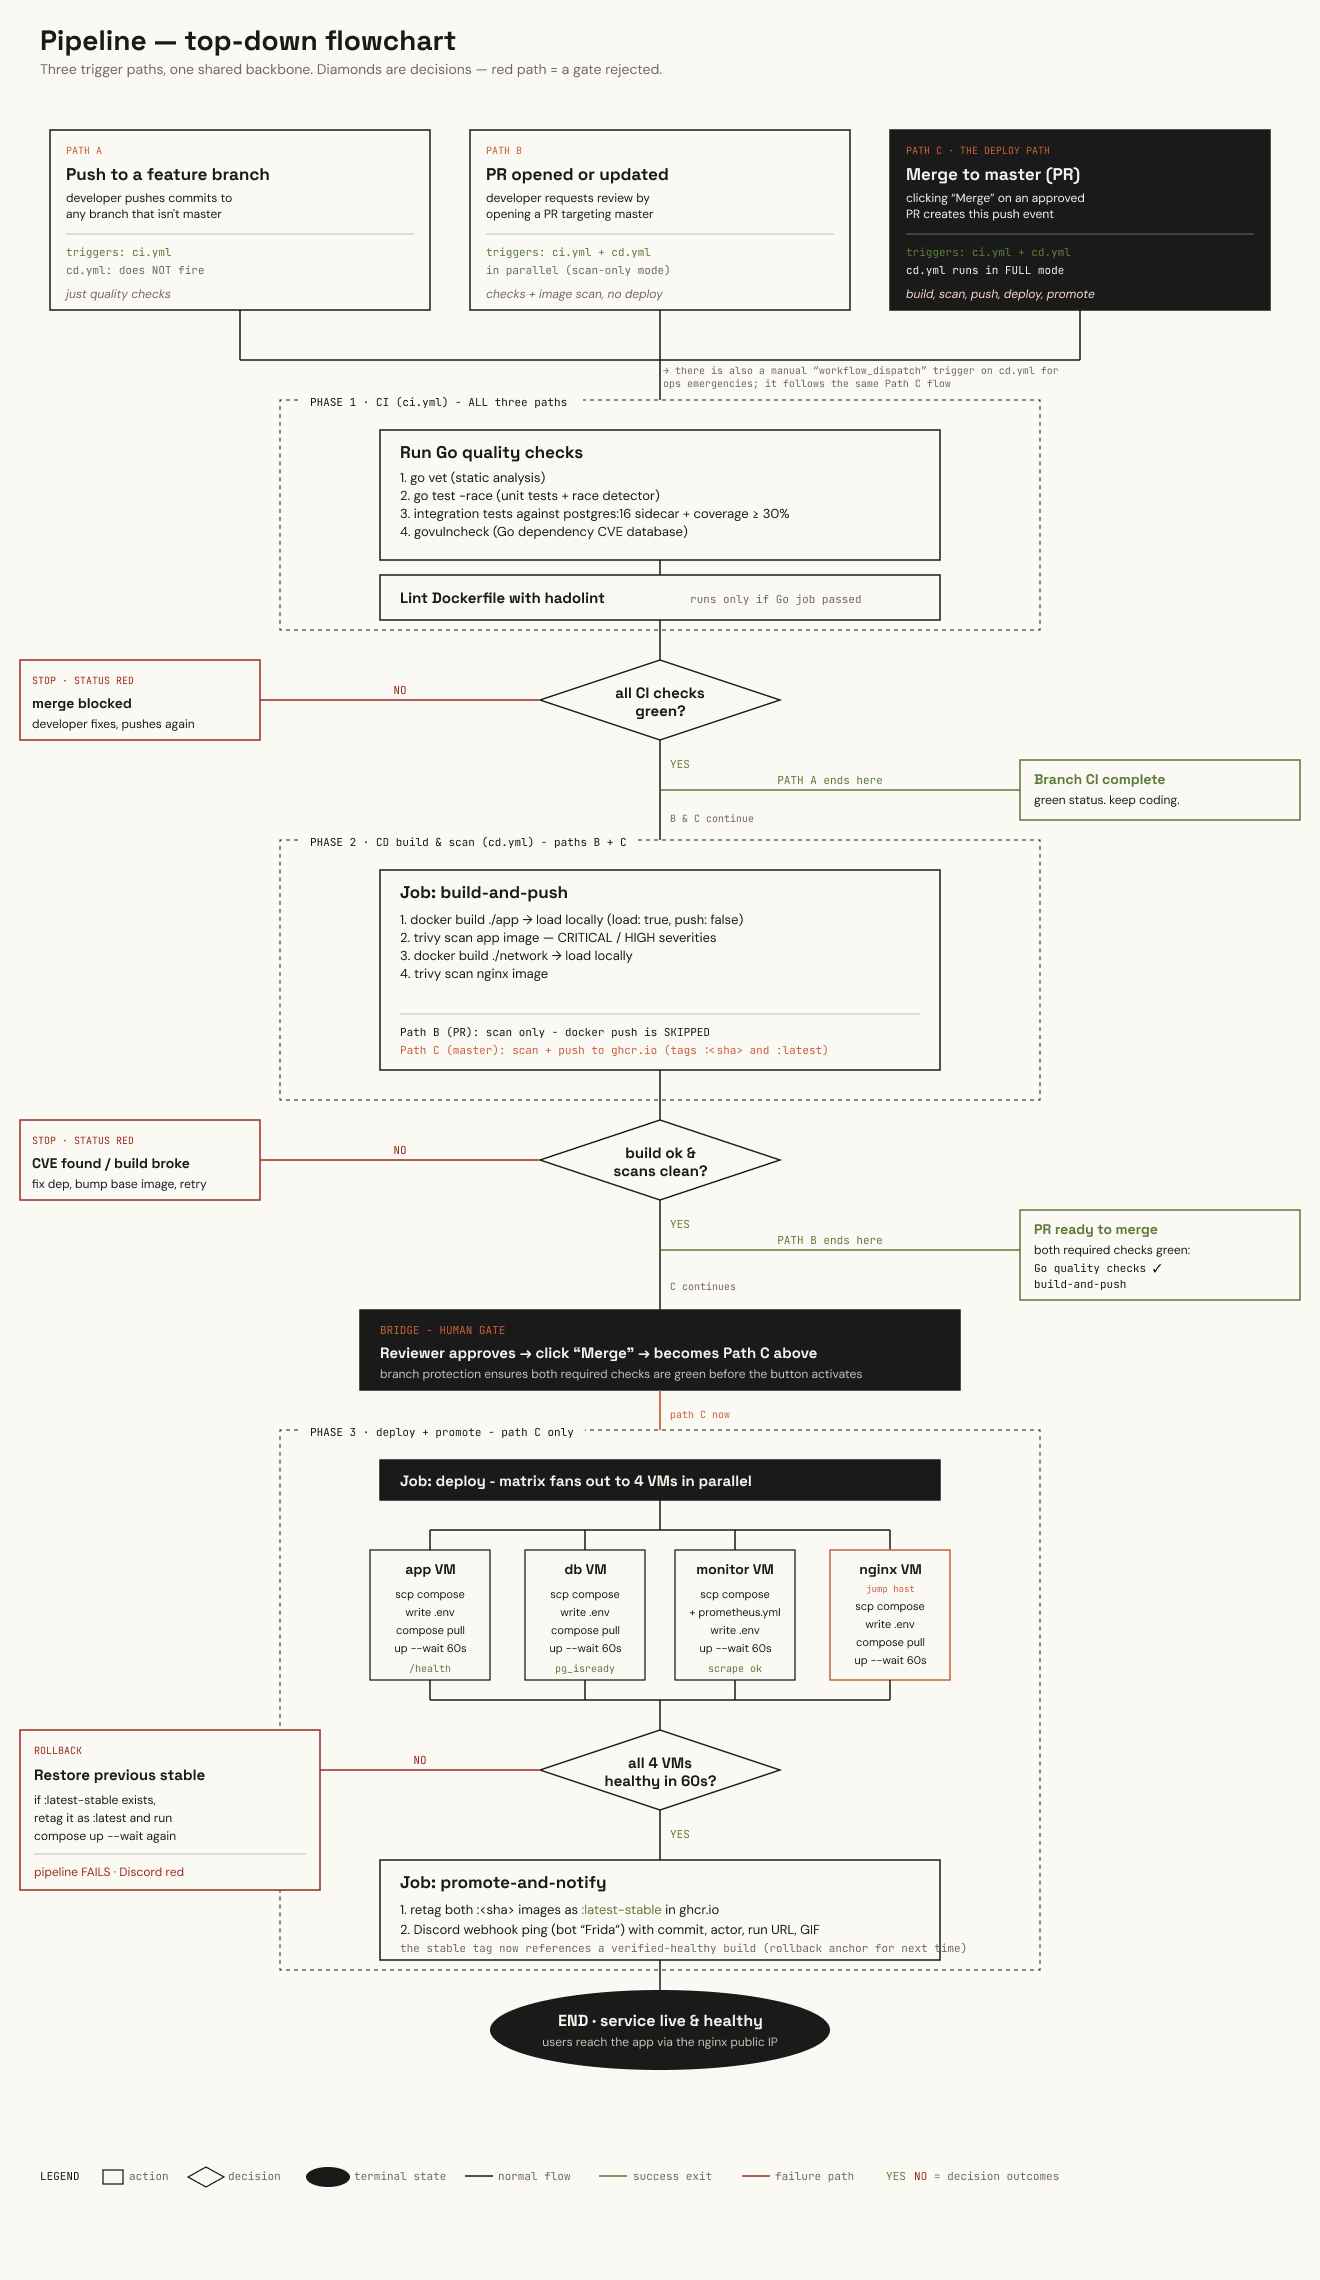
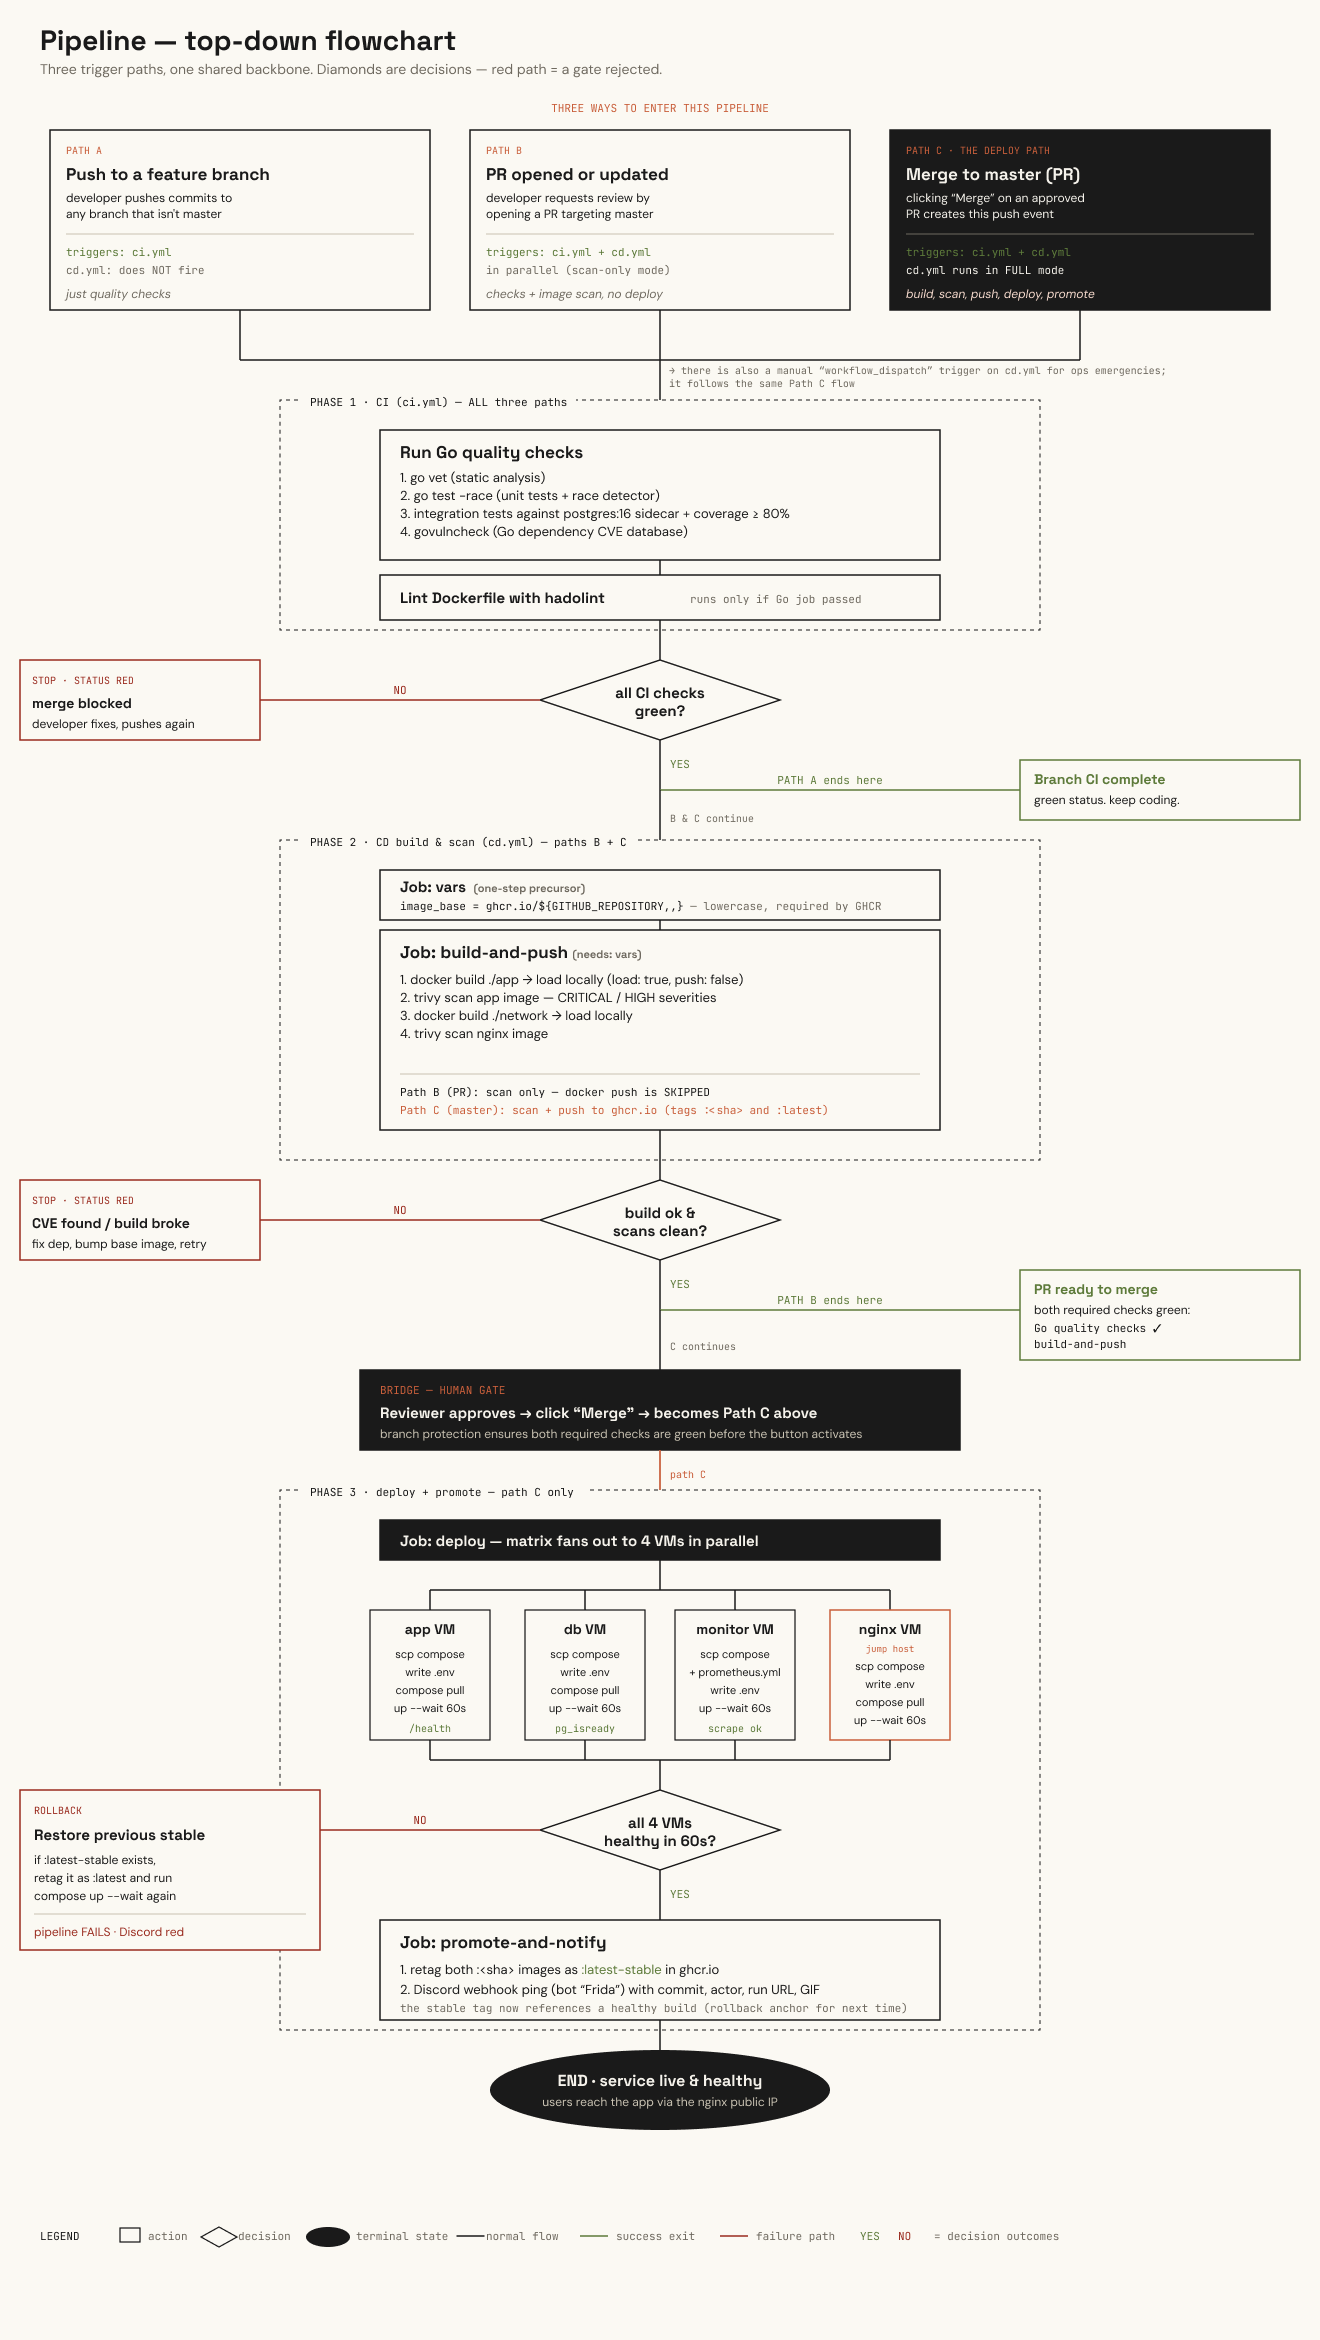
Fix README inaccuracies and sync docs with current infrastructure

diff --git a/readme.md b/readme.md
@@ -33,16 +33,18 @@ A Go rewrite of a legacy Python/Flask recipe cookbook application. The project s
 
 ### Option A — View the live app
 
-The application is deployed and running. Open the URL printed at the end of `azure-setup.sh`, or ask the repository owner for the current nginx public IP.
+The application is deployed and running at the static public IP below.
 
 | Endpoint | URL |
 |---|---|
-| Web UI | `http://<nginx-public-ip>/` |
-| REST API overview | `http://<nginx-public-ip>/api` |
-| Swagger UI | `http://<nginx-public-ip>/swagger` |
-| Grafana | `http://<nginx-public-ip>/grafana/` |
+| Web UI | `http://20.251.36.80/` |
+| REST API overview | `http://20.251.36.80/api` |
+| Swagger UI | `http://20.251.36.80/swagger` |
+| Grafana | `http://20.251.36.80/grafana/` |
 
-> The live IP is stored in the `SSH_HOST_NGINX` GitHub secret and changes if the infrastructure is torn down and rebuilt.
+> The public IP (`20.251.36.80`) is a static Azure resource in the `recipe-cookbook` resource group and is preserved across teardown and re-setup — as long as the same Azure account is used. If the infrastructure is migrated to a different account, the IP will change and this section should be updated.
+
+> **Note:** HTTPS (port 443) is not currently configured. All traffic runs over HTTP.
 
 ---
 
@@ -56,7 +58,7 @@ The application is deployed and running. Open the URL printed at the end of `azu
 |---|---|---|
 | Azure CLI | Windows: `winget install Microsoft.AzureCLI`<br>macOS: `brew install azure-cli`<br>Linux (Ubuntu/Debian): `curl -sL https://aka.ms/InstallAzureCLIDeb &#124; sudo bash`<br>Other Linux: [install guide](https://learn.microsoft.com/en-us/cli/azure/install-azure-cli-linux) | `az login` |
 | GitHub CLI | Windows: `winget install GitHub.cli`<br>macOS: `brew install gh`<br>Linux (Ubuntu/Debian): `sudo apt install gh`<br>Other Linux: [install guide](https://cli.github.com/) | `gh auth login --scopes read:packages` |
-| Azure subscription | Azure for Students works | quota for 4 × Standard_B1s VMs + 1 Standard public IP |
+| Azure subscription | Azure for Students works | quota for 4 × Standard_B2als_v2 VMs + 1 Standard public IP |
 | `openssl` | Pre-installed on macOS/Linux; included in Git Bash / WSL on Windows | — |
 | SSH key | Auto-generated at `~/.ssh/azure_key` if missing | — |
 
@@ -99,7 +101,7 @@ bash infrastructure/azure-teardown.sh
 | Reverse proxy | Nginx |
 | Monitoring | Prometheus + Grafana |
 | Container registry | GHCR |
-| Cloud | Azure (4 × Standard_B1s VMs) |
+| Cloud | Azure (4 × Standard_B2als_v2 VMs) |
 
 Go with `net/http` was chosen over the legacy Python/Flask stack for its performance and simplicity — it is compiled, statically typed, and the standard library HTTP server requires no external framework dependencies.
 
@@ -111,8 +113,10 @@ The application is split across four Azure VMs in a shared VNet (`10.0.0.0/16`),
 
 ![Azure Architecture](docs/azure-architecture.png)
 
+- The nginx VM is the only entry point. Its public IP (`20.251.36.80`) is a static resource in the `recipe-cookbook` resource group and survives teardown/re-setup on the same Azure account.
 - The app VM and postgres VM are reachable only within the VNet — no public IP.
 - The monitoring VM is also private; Grafana is exposed through nginx at `/grafana/`.
+- Private IPs within the subnet are assigned dynamically by Azure and may change if a VM is recreated. The current values are stored in the GitHub Actions secrets (`SSH_HOST_APP`, `SSH_HOST_POSTGRES`, `SSH_HOST_MONITORING`).
 - All VMs are provisioned and configured by the IaC scripts in [`infrastructure/`](infrastructure/README.md).
 
 ---
@@ -133,13 +137,24 @@ Branch protection rules on `master` enforce that no direct pushes are allowed an
 
 ## Running Locally
 
-**Prerequisites:** Docker and Docker Compose. On **Windows** without Git Bash or WSL, replace `cp` with `copy`.
+**Prerequisites:** Docker and Docker Compose.
+- **Windows / macOS:** Install [Docker Desktop](https://www.docker.com/products/docker-desktop/)
+- **Linux:** Install Docker Engine + the `docker-compose-plugin` package
+
+On **Windows** without Git Bash or WSL, replace `cp` with `copy`.
+
+Run each step from the **repository root**. After each `cd`, return with `cd ..` before starting the next step.
 
 **1. Start the database**
 ```bash
 cd database
 cp .env.example .env   # fill in credentials
 docker compose up -d
+```
+
+Verify the database is ready before continuing:
+```bash
+docker compose logs postgres | grep "database system is ready to accept connections"
 ```
 
 **2. Start the application**
@@ -202,7 +217,7 @@ The database is seeded with four sample recipes on first startup if the `recipes
 Infrastructure is managed as code using bash scripts in [`infrastructure/`](infrastructure/README.md).
 
 - **`azure-setup.sh`** — provisions all four VMs, configures networking and firewall rules, installs Docker, and writes all GitHub Actions secrets automatically.
-- **`azure-teardown.sh`** — deletes the entire resource group and all associated resources.
+- **`azure-teardown.sh`** — deletes VMs, NICs, disks, NSGs, and the VNet from the `recipe-cookbook` resource group. The nginx public IP is deliberately preserved so it can be reused on the next setup.
 
 Every group member should be able to run the full setup → deploy → teardown cycle independently. See [`infrastructure/README.md`](infrastructure/README.md) for prerequisites and usage.
 
@@ -235,7 +250,7 @@ Prometheus scrapes metrics from the app every 15 seconds. Grafana visualises the
 | Environment | Prometheus | Grafana |
 |---|---|---|
 | Local | `http://localhost:9090` | `http://localhost:3001` |
-| Production | internal only | `http://<nginx-public-ip>/grafana/` — IP is the value of the `SSH_HOST_NGINX` secret, set by `azure-setup.sh` |
+| Production | internal only | `http://20.251.36.80/grafana/` |
 
 Metrics exposed at `/metrics`:
 
@@ -367,7 +382,7 @@ Only use this for WIP commits on a personal branch. All code must pass checks be
 - **Environment Parity:** The deployment uses the exact same configuration templates and scripts that will be used for production.
 
 ### 4. Observability & Operations
-- **Telemetry:** Logging, metrics, and distributed tracing are implemented following architectural standards.
+- **Telemetry:** Logging and metrics are implemented following architectural standards.
 
 ### 5. Product & Compliance
 - **Documentation:** User-facing documentation, API specs (e.g., Swagger/OpenAPI), and internal architecture diagrams are updated.

diff --git a/infrastructure/README.md b/infrastructure/README.md
@@ -9,7 +9,7 @@
 | Tool | Purpose | Install |
 |---|---|---|
 | [Azure CLI](https://docs.microsoft.com/en-us/cli/azure/install-azure-cli) | Create VMs | Windows: `winget install Microsoft.AzureCLI`<br>macOS: `brew install azure-cli`<br>Linux (Ubuntu/Debian): `curl -sL https://aka.ms/InstallAzureCLIDeb &#124; sudo bash`<br>Other Linux: [install guide](https://learn.microsoft.com/en-us/cli/azure/install-azure-cli-linux) |
-| Azure subscription | Quota for 1 Standard public IP | Azure for Students works |
+| Azure subscription | Quota for 4 × Standard_B2als_v2 VMs + 1 Standard public IP | Azure for Students works |
 | `openssl` | Generate DB/Grafana passwords | Pre-installed on macOS/Linux; included in Git Bash / WSL on Windows |
 | SSH key at `~/.ssh/azure_key` | VM auth | Auto-generated if missing |
 | [GitHub CLI](https://cli.github.com/) | Set secrets automatically | Windows: `winget install GitHub.cli`<br>macOS: `brew install gh`<br>Linux (Ubuntu/Debian): `sudo apt install gh`<br>Other Linux: [install guide](https://cli.github.com/) |
@@ -29,8 +29,8 @@ gh auth login --scopes read:packages
 Run once to provision infrastructure and perform the initial container deployment. Subsequent deployments are handled by GitHub Actions on every push.
 
 1. Creates resource group `recipe-cookbook` and a shared VNet (`10.0.0.0/16`) in `norwayeast`
-2. Provisions four VMs (all `Standard_B1s`, Ubuntu 22.04):
-   - **nginx VM** — public IP, ports 22/80/443 open
+2. Provisions four VMs (all `Standard_B2als_v2`, Ubuntu 22.04):
+   - **nginx VM** — public IP, ports 22/80 open (443 not configured — HTTPS not active)
    - **app VM** — no public IP, port 3000 reachable within VNet only
    - **postgres VM** — no public IP, port 5432 reachable from app VM only
    - **monitoring VM** — no public IP, ports 9090/3001 reachable within VNet only
@@ -45,7 +45,9 @@ GitHub secrets written: `VM_USER`, `SSH_HOST_NGINX`, `SSH_HOST_NGINX_PRIVATE`, `
 
 ## What `azure-teardown.sh` does
 
-Deletes all resources in `recipe-cookbook` in order: VMs → NICs → disks (background, `--no-wait`) → NSGs → VNet. Non-interactive — no confirmation prompt.
+Deletes resources in `recipe-cookbook` in order: VMs → NICs → disks (background, `--no-wait`) → NSGs → VNet. Requires typing the resource group name to confirm before deletion begins.
+
+The nginx public IP (`recipe-cookbook-nginx-public-ip`) is deliberately **not** deleted, so it is reused the next time `azure-setup.sh` runs on the same account.
 
 ## Azure Region
 
@@ -63,7 +65,7 @@ The third case is the most common when using accounts with restricted quotas (e.
 az account list-locations --query "[].{Name:name, DisplayName:displayName}" --output table
 ```
 
-Pick any region from the `Name` column where you have quota for 4 × `Standard_B1s` VMs and 1 Standard public IP. `Standard_B1s` is a small general-purpose VM available in virtually all regions — if a region appears in the list, it will almost certainly work.
+Pick any region from the `Name` column where you have quota for 4 × `Standard_B2als_v2` VMs and 1 Standard public IP. `Standard_B2als_v2` is available in virtually all regions — if a region appears in the list, it will almost certainly work.
 
 ## Usage
 

diff --git a/.github/workflows/README.md b/.github/workflows/README.md
@@ -13,7 +13,7 @@ Runs on every push to any branch and on every pull request.
 | Step | Tool | Purpose |
 |---|---|---|
 | Static analysis | `go vet` | Catches common Go bugs (misused format strings, unreachable code, etc.) |
-| Tests + race detector | `go test -race` | Runs all unit tests and detects data races |
+| Tests + race detector | `go test -race` | Runs unit tests and integration tests (real Postgres service); detects data races |
 | Coverage threshold | `go tool cover` | Fails if total test coverage drops below 80% |
 | Vulnerability scan | `govulncheck` | Checks Go dependencies against the Go vulnerability database |
 | Dockerfile lint | `hadolint` | Enforces Dockerfile best practices |
